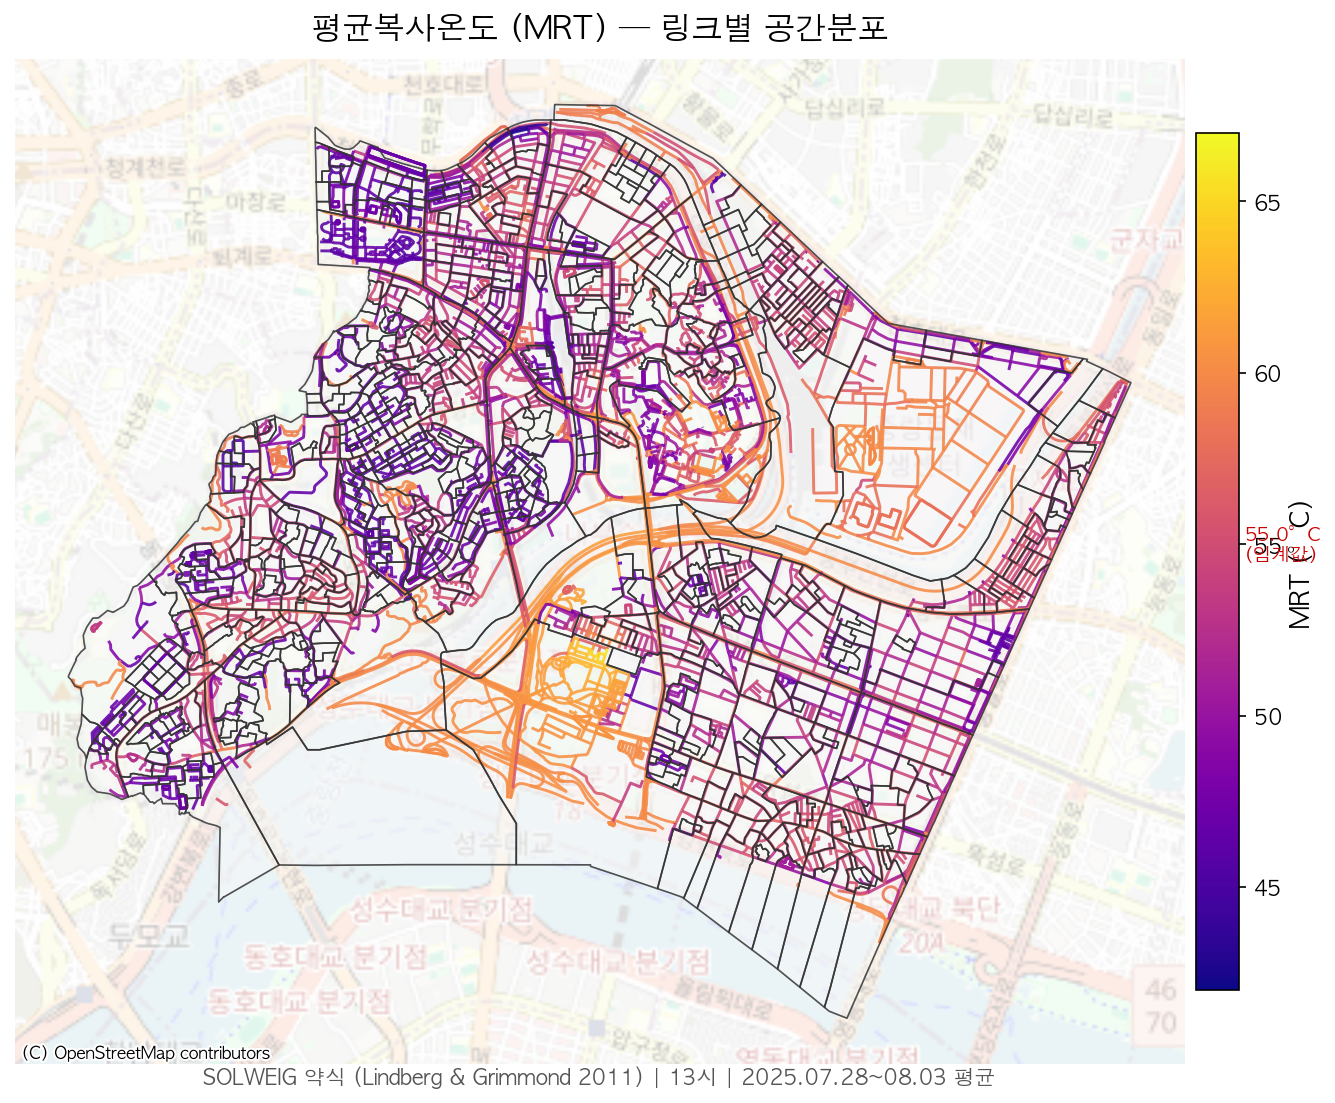
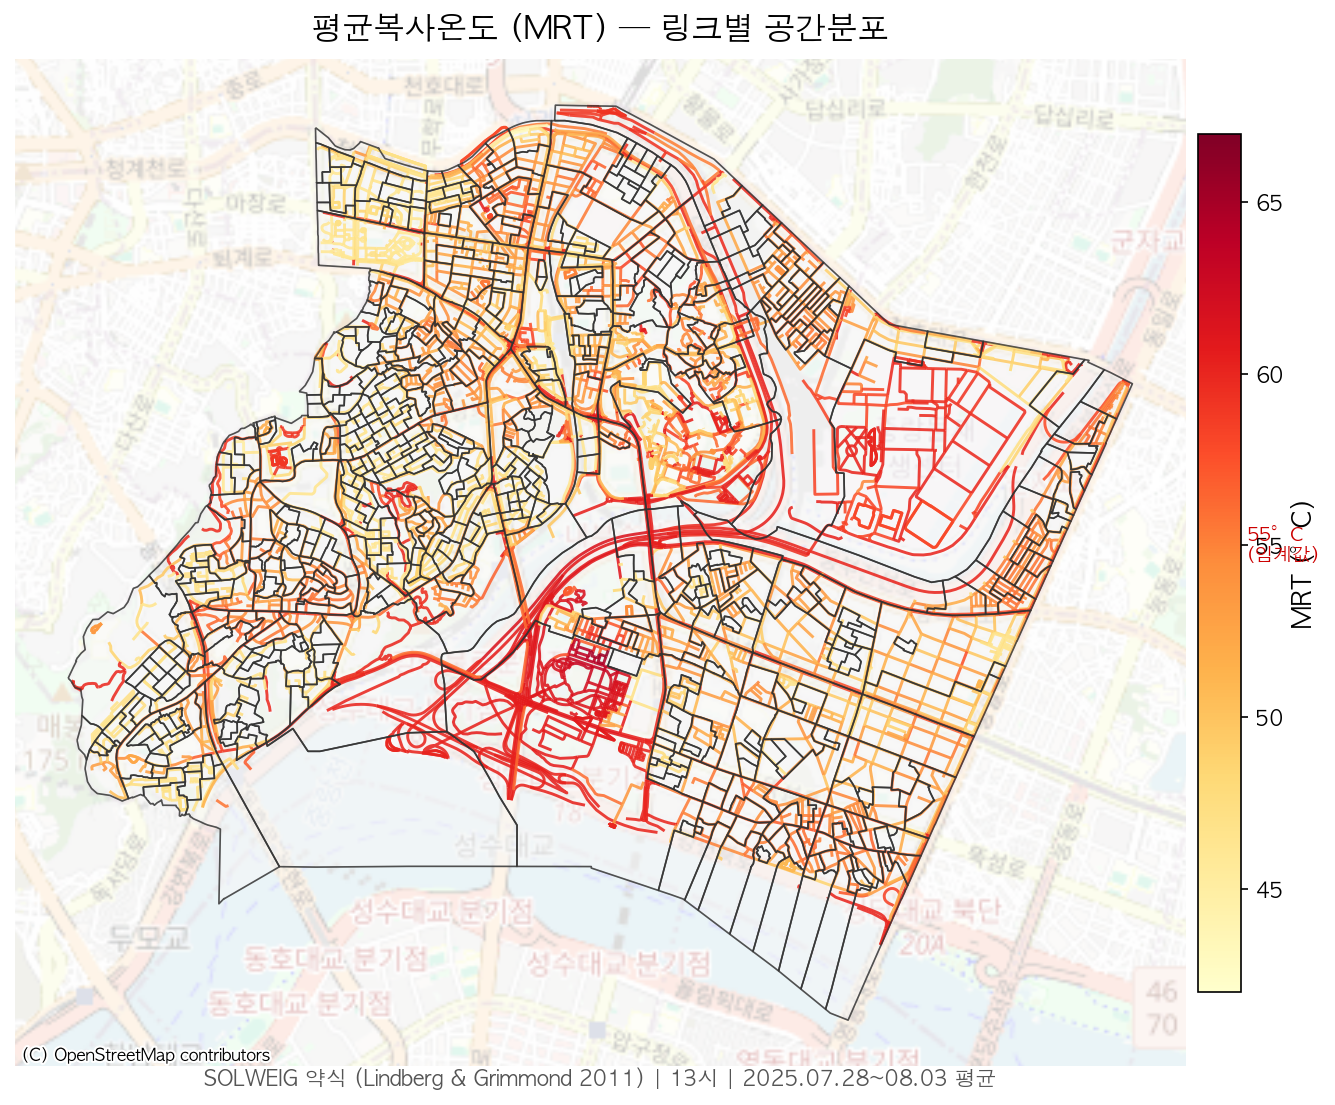
Fix: MRT 지도 컬러맵 YlOrRd로 변경 (저온=노랑→고온=진빨강)

diff --git a/Thermal_Catchment/02_코드/46_professor_maps.py b/Thermal_Catchment/02_코드/46_professor_maps.py
@@ -200,7 +200,7 @@ e = merge_to_edges(h13, 'mrt')
 draw_map(e, 'mrt',
          title='평균복사온도 (MRT) — 링크별 공간분포',
          subtitle=f'SOLWEIG 약식 (Lindberg & Grimmond 2011) | {HOUR:02d}시 | {PERIOD}',
-         cmap_name='plasma', vmin=42, vmax=67, unit='°C',
+         cmap_name='YlOrRd', vmin=42, vmax=67, unit='°C',
          cbar_label='MRT (°C)', fname='06_MRT.png',
          thresh_line=55.0)
 
